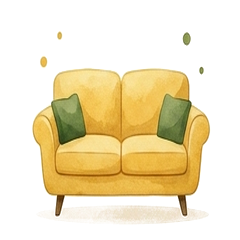
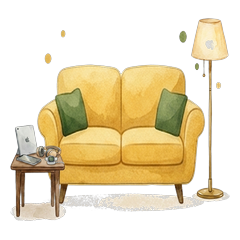
Add files via upload

diff --git a/app.jsx b/app.jsx
@@ -158,9 +158,9 @@ const CATS_CHF = [
     subs: null, conceptPlaceholder: "Ej: zapatillas, campera, ropa interior",
   },
   {
-    key: "casa", label: "Casa", emoji: "🛋", icon: "icon-casa.png",
+    key: "casa", label: "Hogar & Tecno", emoji: "🛋", icon: "icon-casa.png",
     color: "#d9ac5c", light: "#faf0dc", dark: "#6b4d16",
-    subs: null, conceptPlaceholder: "Ej: mueble, arreglo, decoración",
+    subs: null, conceptPlaceholder: "Ej: mueble, decoración, auriculares, gadget",
   },
   {
     key: "varios", label: "Varios", emoji: "🔀", icon: "icon-varios.png",
@@ -252,9 +252,9 @@ const CATS_ARS = [
     subs: null, conceptPlaceholder: "Ej: zapatillas, campera, ropa interior",
   },
   {
-    key: "casa_ar", label: "Casa", emoji: "🛋", icon: "icon-casa.png",
+    key: "casa_ar", label: "Hogar & Tecno", emoji: "🛋", icon: "icon-casa.png",
     color: "#d9ac5c", light: "#faf0dc", dark: "#6b4d16",
-    subs: null, conceptPlaceholder: "Ej: mueble, arreglo, decoración",
+    subs: null, conceptPlaceholder: "Ej: mueble, decoración, auriculares, gadget",
   },
   {
     key: "varios_ar", label: "Varios", emoji: "🔀", icon: "icon-varios.png",
